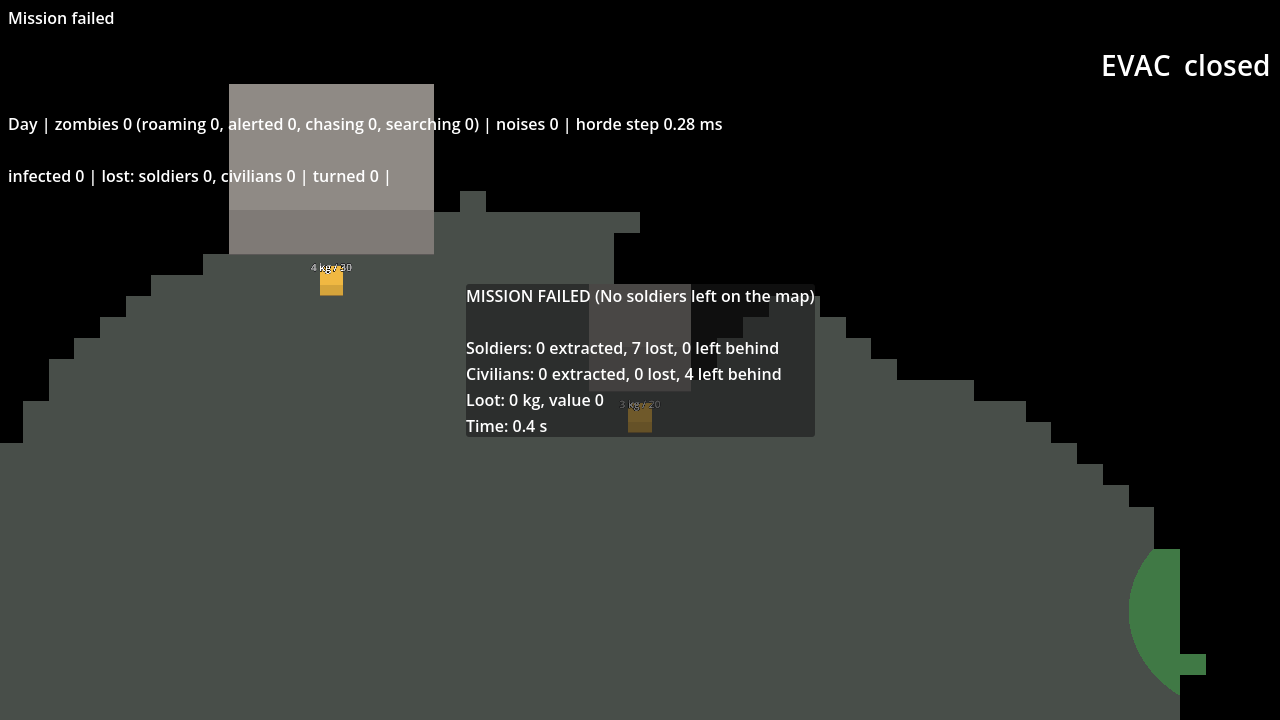
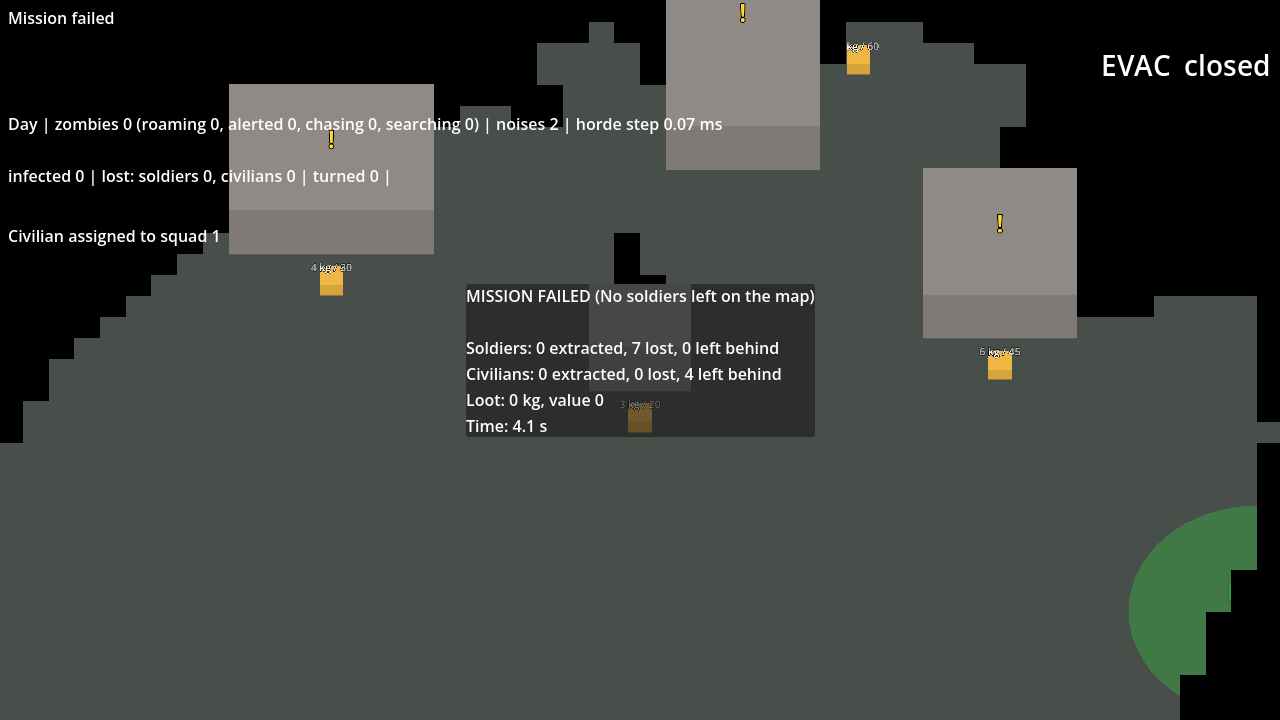
feat: hidden civilians and evac call for the extraction mission
Civilians shelter in buildings until a soldier finds them, start healthy,
and follow a squad only once the player assigns them. The mission timer
is 7 minutes; X or the button now calls the evac, dropping the timer to
2 minutes when more remains. Auto-extraction waits for all living
soldiers and every assigned civilian. Unfound civilians count as left
behind. Includes the review fixes and re-captured evidence.

Story 004 stays In Progress until it is closed with /story-done.

Story: production/epics/quarantine-breach/story-004-extraction-mission.md
Design: design/game-brief.md (MVP feature 5)

Changed region(s): [[0.3125, 0.0, 1.0, 0.9167], [0.0, 0.3056, 0.1875, 0.3972]]

diff --git a/production/epics/quarantine-breach/story-004-extraction-mission.md b/production/epics/quarantine-breach/story-004-extraction-mission.md
@@ -62,6 +62,7 @@ N/A (minimal — no control manifest)
 ## Files
 
 - `src/mission/civilian.gd`
+- `src/mission/civilian_shelter.gd`
 - `src/mission/evac_zone.gd`
 - `src/mission/mission.gd`
 - `src/mission/mission_controls.gd`
